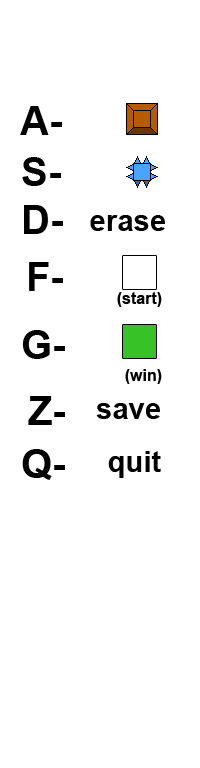
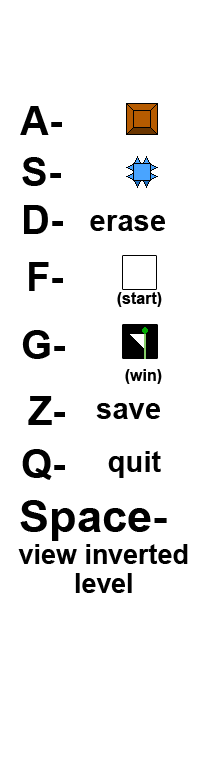
Gave Tile Editor ability to view inverted level, added sprite for end tile instead of green square

Changed region(s): [[0.09, 0.625, 0.96, 0.7812], [0.6, 0.4062, 0.81, 0.4688]]

diff --git a/LeftToDie/tile_editor.py b/LeftToDie/tile_editor.py
@@ -12,6 +12,10 @@ surf = pygame.display.set_mode((SCREEN_X,SCREEN_Y))
 tile = pygame.image.load(os.path.join('Art','tileBlockNormal.png'))
 spikes = pygame.image.load(os.path.join('Art','tileSpikeNormal.png'))
 sidebar = pygame.image.load(os.path.join('Art', 'sidebar.png'))
+itile = pygame.image.load(os.path.join('Art', 'tileBlockInverse.png'))
+ispikes = pygame.image.load(os.path.join('Art', 'tileSpikeInverse.png'))
+end = pygame.image.load(os.path.join('Art', 'tileEndNormalSingle.png'))
+iend = pygame.image.load(os.path.join('Art', 'tileEndInverseSingle.png'))
 def draw_grid(surface):
     for i in range(1,H_BOXES):
         pygame.draw.line(surface, pygame.Color(255,255,255,255), (i*BOX_SIZE,0),(i*BOX_SIZE,SCREEN_Y))
@@ -22,6 +26,36 @@ draw_grid(surf)
 tm = tile_matrix.TileMatrix(H_BOXES,V_BOXES)
 surf.blit(sidebar, pygame.Rect(SCREEN_X_NS, 0 , 200, SCREEN_Y))
 pygame.display.update()
+black = pygame.Color(0,0,0)
+inverted_view = False
+def invert_view(surface,tm):
+
+    for i in range(len(tm.matrix)):
+        for j in range(len(tm.matrix[i])):
+            x = j * BOX_SIZE
+            y = i * BOX_SIZE
+            if(inverted_view):
+                if tm.matrix[i][j] == "B":
+                    surface.blit(tile, pygame.Rect(x, y, BOX_SIZE, BOX_SIZE))
+                elif tm.matrix[i][j] == "S":
+                    pygame.draw.rect(surf,black, (x, y, BOX_SIZE,BOX_SIZE))
+                    surface.blit(spikes, pygame.Rect(x, y, BOX_SIZE, BOX_SIZE))
+                elif tm.matrix[i][j] == "V":
+                    surface.blit(end, pygame.Rect(x,y, BOX_SIZE, BOX_SIZE))
+            else:
+                if tm.matrix[i][j] == "B":
+                    pygame.draw.rect(surf,black, (x, y, BOX_SIZE,BOX_SIZE))
+                    surface.blit(ispikes, pygame.Rect(x, y, BOX_SIZE, BOX_SIZE))
+                elif tm.matrix[i][j] == "S":
+                    surface.blit(itile, pygame.Rect(x, y, BOX_SIZE, BOX_SIZE))
+                elif tm.matrix[i][j] == "V":
+                    surface.blit(iend, pygame.Rect(x,y, BOX_SIZE, BOX_SIZE))
+
+
+
+    draw_grid(surface)
+    pygame.display.update()
+
 
 running = True
 # X is erase, B is Block, S is spikes, I is Iniitial (start point), V is Victory (goal)
@@ -50,6 +84,9 @@ while(running):
                 tm.save_to_file()
             elif event.key == pygame.K_q:
                 pygame.display.quit()
+            elif event.key == pygame.K_SPACE:
+                invert_view(surf,tm)
+                inverted_view = not inverted_view
         if pygame.mouse.get_pos()[0] <= SCREEN_X_NS:
             if pygame.mouse.get_pressed()[0]:
                 box_x = pygame.mouse.get_pos()[0] // BOX_SIZE
@@ -75,8 +112,8 @@ while(running):
                     color = pygame.Color(255,255,255, 255)
                     pygame.draw.rect(surf, color, (start_x, start_y, BOX_SIZE, BOX_SIZE))
                 if current_mode == "V":
-                    color = pygame.Color(0,150,0,255)
-                    pygame.draw.rect(surf, color, (start_x, start_y, BOX_SIZE, BOX_SIZE))
+                    pygame.draw.rect(surf,black,(start_x,start_y,BOX_SIZE,BOX_SIZE))
+                    surf.blit(end,pygame.Rect(start_x, start_y, BOX_SIZE, BOX_SIZE))
 
 
                 draw_grid(surf)

diff --git a/LeftToDie/Tiles.py b/LeftToDie/Tiles.py
@@ -5,7 +5,7 @@ class BlockTile:
     def __init__(self, x, y, screen, is_inverted, is_spawn): #x and y in grid both start at zero
         self.x = x
         self.y = y
-        self.rectangle = pygame.Rect(x,y,32,32)
+        self.rectangle = pygame.Rect(x, y, 32, 32)
         self.screen = screen
         self.is_inverted = is_inverted
         self.is_spawn = is_spawn
@@ -19,7 +19,7 @@ class BlockTile:
             self.image = AllSprites["tileBlockNormal.png"]
 
     def draw(self):
-        self.screen.blit(self.image,(self.x,self.y))
+        self.screen.blit(self.image,(self.x *32 ,self.y * 32))
 
 class SpikeTile:
     def __init__(self, x, y, screen, is_inverted):
@@ -35,7 +35,7 @@ class SpikeTile:
             self.image = AllSprites["tileSpikeNormal.png"]
 
     def draw(self):
-         self.screen.blit(self.image,(self.x*32,self.y*32))
+         self.screen.blit(self.image,(self.x*32, self.y*32))
 
 
 class EndTile:
@@ -51,7 +51,7 @@ class EndTile:
         else:
             self.image = AllSprites["tileEndNormal.png"]
     def draw(self):
-         self.screen.blit(self.image,(self.x*32,self.y*32))
+         self.screen.blit(self.image,(self.x*32, self.y*32))
 
 class EmptyTile:
     def __init__(self,x,y):

diff --git a/LeftToDie/ScreenManager.py b/LeftToDie/ScreenManager.py
@@ -45,6 +45,7 @@ class Screen:
         self.TALevel1 = Tiles.TilesArray(self.screen,'level1.txt')
         self.TALevel1.make_tiles()
         self.TALevel1.make_inverse()
+        self.TALevel1.mapfile.close()
         print(self.TALevel1.make_tiles())
         self.tiles = [self.TALevel1.tiles]
         self.tilesInverse = [self.TALevel1.inverted_tiles]
